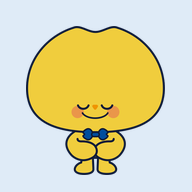
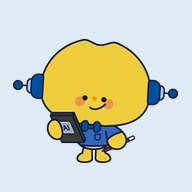
gimhae-dami: 메인 캐릭터를 AI다미로 교체 (단독 사용 전부 AI다미, 다중 캐릭터 구간 AI다미 추가·강조)
Claude-Session: https://claude.ai/code/session_01YGL7SxhF1JWiyAJFR8VaoT

Changed region(s): [[0.0625, 0.125, 0.9375, 0.9375]]

diff --git a/gimhae-dami/qr-panels.html b/gimhae-dami/qr-panels.html
@@ -38,7 +38,8 @@ body{margin:0;background:#E9EEF5;font-family:"Pretendard Variable",Pretendard,-a
 .steps i{flex:none;font-style:normal;width:6mm;height:6mm;border-radius:50%;background:var(--yellow);display:flex;align-items:center;justify-content:center;font-size:9pt;font-weight:900}
 .code{margin-top:4mm;font-size:9.5pt;color:var(--sub)}
 .code b{font-size:15pt;letter-spacing:1.5mm;color:var(--navy);margin-left:2mm;font-weight:900;vertical-align:-.5mm}
-.dami{position:absolute;right:7mm;bottom:18mm;height:46mm;width:auto;z-index:2}
+.dami{position:absolute;right:6mm;bottom:13mm;height:42mm;width:auto;z-index:2}
+.dami.sub{right:auto;left:58mm;bottom:16mm;height:27mm;z-index:1}
 .wave{position:absolute;left:0;right:0;bottom:0;height:40mm}
 .wave svg{position:absolute;left:0;bottom:0;width:100%;height:100%}
 .foot{position:absolute;left:10mm;bottom:7mm;z-index:3;font-size:8.5pt;color:var(--navy);font-weight:700;line-height:1.4}
@@ -79,12 +80,12 @@ function build(){
   const pages=[];
   pages.push(`<div class="pg">${head}<div class="body">
     <span class="pill">입장 · 체험 스탬프</span>
-    <h1>QR 찍고<br><em style="color:#005C99">다미와 건강 체험!</em></h1>
+    <h1>QR 찍고<br><em style="color:#005C99">AI다미와 건강 체험!</em></h1>
     <div class="lead">6개 구역 체험 · 스탬프 모으고 건강 리포트 받기</div>
     <div class="qrrow"><div class="qrbox">${base?qrSvg(base):''}</div>
       <div class="steps"><div><i>1</i>휴대폰 카메라로<br>QR 스캔</div><div><i>2</i>체험 스탬프<br>앱 시작하기</div><div><i>3</i>구역마다 QR 찍고<br>스탬프 모으기</div>
       <div><i>🎁</i>${C.prizeThreshold>=C.zones.length?'모두 모으면':C.prizeThreshold+'개 이상 모으면'}<br>경품 증정!</div></div></div>
-  </div><img class="dami" src="img/hello.png">${wave()}${foot}</div>`);
+  </div><img class="dami" src="img/ai-dami.png">${wave()}${foot}</div>`);
   C.zones.forEach(z=>{
     const url=base?base+'?s='+z.token:'';
     pages.push(`<div class="pg"><div class="band" style="background:${z.color}"></div>${head}<div class="body">
@@ -94,7 +95,7 @@ function build(){
       <div class="qrrow"><div class="qrbox" style="border-color:${z.color}">${url?qrSvg(url):''}</div>
         <div class="steps"><div><i>1</i>체험을 마치면</div><div><i>2</i>스탬프 앱의<br>[QR 찍고 스탬프 받기]</div><div><i>3</i>스탬프 획득 후<br>측정 결과 기록!</div></div></div>
       <div class="code">QR이 인식되지 않으면 앱에서 [번호로 입력하기] <b>${z.code}</b></div>
-    </div><img class="dami" src="${z.img}">${wave()}${foot}</div>`);
+    </div><img class="dami sub" src="${z.img}"><img class="dami" src="img/ai-dami.png">${wave()}${foot}</div>`);
   });
   document.getElementById('pages').innerHTML=pages.join('');
 }

diff --git a/gimhae-dami/sw.js b/gimhae-dami/sw.js
@@ -1,8 +1,8 @@
 /* 오프라인 캐시: 한 번 접속하면 행사장 인터넷이 불안정해도 앱이 열립니다 */
-const V='ghs-v4';
+const V='ghs-v5';
 const ASSETS=['./','index.html','config.js','manifest.json','lib/jsQR.js','lib/html2canvas.min.js',
  'img/logo.png','img/logo.svg','img/logo-anchor.png','img/hello.png','img/joy.png','img/guide.png','img/grad.png','img/fighting.png','img/love.png','img/medi.png',
- 'img/nurse.png','img/physio.png','img/ai.png','img/study.png','img/icon-192.png'];
+ 'img/nurse.png','img/physio.png','img/ai.png','img/study.png','img/icon-192.png','img/ai-dami.png','img/lab.png'];
 self.addEventListener('install',e=>{e.waitUntil(caches.open(V).then(c=>c.addAll(ASSETS)).then(()=>self.skipWaiting()))});
 self.addEventListener('activate',e=>{e.waitUntil(caches.keys().then(ks=>Promise.all(ks.filter(k=>k!==V).map(k=>caches.delete(k)))).then(()=>self.clients.claim()))});
 self.addEventListener('fetch',e=>{

diff --git a/gimhae-dami/config.js b/gimhae-dami/config.js
@@ -57,7 +57,7 @@ window.APP_CONFIG = {
     },
     {
       id: "z3", no: 3, name: "옴니핏", sub: "스트레스 · 두뇌 건강",
-      color: "#F0702A", img: "img/ai.png",
+      color: "#F0702A", img: "img/lab.png",
       token: "GHOF73", code: "7303",
       desc: "뇌파·맥파를 측정해 스트레스와 두뇌 컨디션을 확인해요.",
       fields: [
